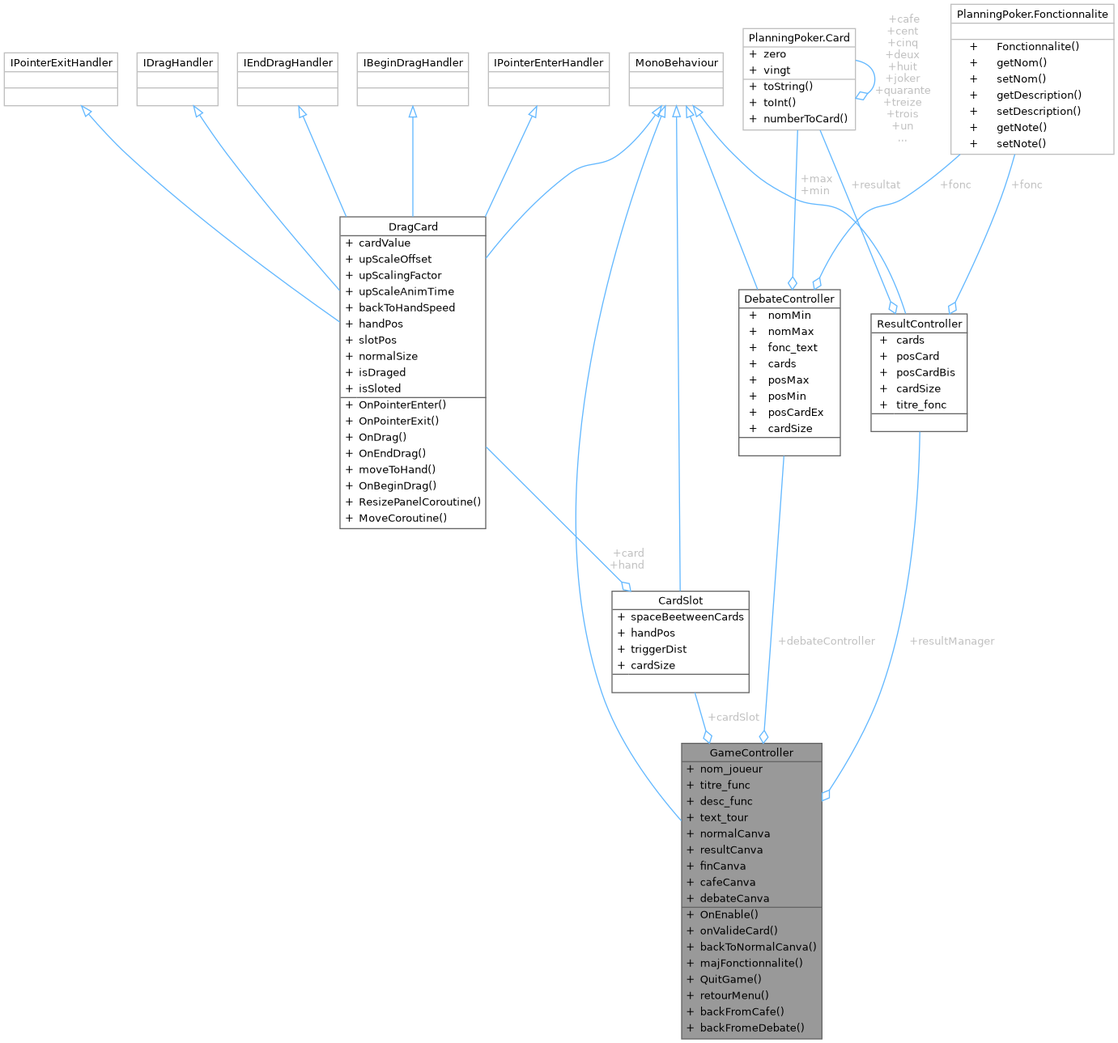
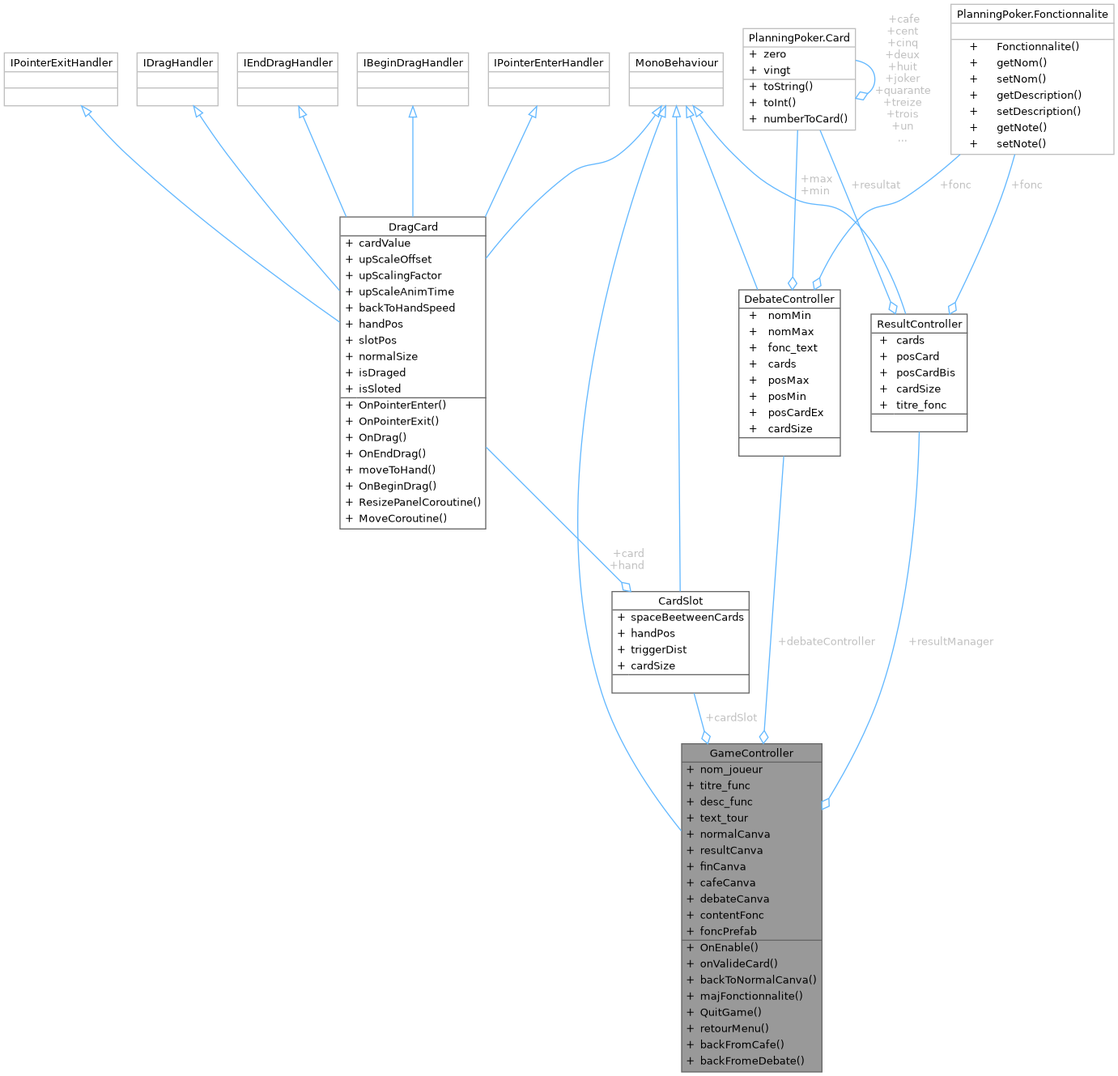
deploy: 15e316190e2ada35e5dddae3ec6a5c3a0fa7c6b8

diff --git a/html/classGameController.html b/html/classGameController.html
@@ -84,9 +84,9 @@ Inheritance diagram for GameController:</div>
 <div class="dyncontent">
 <div class="center"><img src="classGameController__inherit__graph.png" border="0" usemap="#aGameController_inherit__map" alt="Inheritance graph"/></div>
 <map name="aGameController_inherit__map" id="aGameController_inherit__map">
-<area shape="rect" title="Permet de gérer le fonctionnement du jeu en reliant le modèle aux différentes vues." alt="" coords="5,119,179,544"/>
+<area shape="rect" title="Permet de gérer le fonctionnement du jeu en reliant le modèle aux différentes vues." alt="" coords="5,119,179,584"/>
 <area shape="rect" title=" " alt="" coords="34,5,150,71"/>
-<area shape="poly" title=" " alt="" coords="95,85,95,119,89,119,89,85"/>
+<area shape="poly" title=" " alt="" coords="95,84,95,118,89,118,89,84"/>
 </map>
 </div>
 <div class="dynheader">
@@ -94,9 +94,9 @@ Collaboration diagram for GameController:</div>
 <div class="dyncontent">
 <div class="center"><img src="classGameController__coll__graph.png" border="0" usemap="#aGameController_coll__map" alt="Collaboration graph"/></div>
 <map name="aGameController_coll__map" id="aGameController_coll__map">
-<area shape="rect" title="Permet de gérer le fonctionnement du jeu en reliant le modèle aux différentes vues." alt="" coords="842,919,1015,1284"/>
+<area shape="rect" title="Permet de gérer le fonctionnement du jeu en reliant le modèle aux différentes vues." alt="" coords="842,919,1015,1324"/>
 <area shape="rect" title=" " alt="" coords="777,65,893,131"/>
-<area shape="poly" title=" " alt="" coords="819,144,776,269,753,353,732,447,718,548,714,652,722,755,732,806,746,855,764,898,788,940,844,1013,840,1016,783,943,759,901,741,857,727,807,717,756,709,652,713,547,727,446,747,352,771,267,814,142"/>
+<area shape="poly" title=" " alt="" coords="820,144,777,269,755,353,735,447,721,547,716,651,724,755,733,806,746,855,764,901,788,945,844,1025,839,1028,783,948,759,903,741,857,727,807,718,756,711,651,716,547,730,446,750,352,772,267,815,143"/>
 <area shape="rect" href="classCardSlot.html" title="Permet d&#39;encrer les cartes à l&#39;intérieur du cadre (slot)" alt="" coords="756,731,925,856"/>
 <area shape="poly" title=" " alt="" coords="838,144,843,730,838,730,833,145"/>
 <area shape="rect" href="classDragCard.html" title="Permet de gérer les mouvements d&#39;une carte." alt="" coords="420,268,600,653"/>
@@ -105,7 +105,7 @@ Collaboration diagram for GameController:</div>
 <area shape="poly" title=" " alt="" coords="866,140,908,189,941,219,979,242,999,249,1016,251,1033,254,1052,266,1076,293,1095,323,1121,387,1116,389,1090,326,1071,296,1048,270,1031,259,1015,256,998,254,977,246,938,223,904,193,862,143"/>
 <area shape="rect" href="classDebateController.html" title="Permet de gérer l&#39;affichage lors du débat." alt="" coords="913,358,1038,563"/>
 <area shape="poly" title=" " alt="" coords="855,143,938,357,933,359,850,145"/>
-<area shape="poly" title=" " alt="" coords="861,855,874,902,869,904,856,857"/>
+<area shape="poly" title=" " alt="" coords="860,856,873,902,867,904,855,857"/>
 <area shape="poly" title=" " alt="" coords="602,550,770,717,766,721,598,554"/>
 <area shape="rect" title=" " alt="" coords="603,65,753,131"/>
 <area shape="poly" title=" " alt="" coords="660,145,602,269,597,267,655,143"/>
@@ -117,7 +117,7 @@ Collaboration diagram for GameController:</div>
 <area shape="poly" title=" " alt="" coords="377,143,430,267,425,269,372,145"/>
 <area shape="rect" title=" " alt="" coords="441,65,579,131"/>
 <area shape="poly" title=" " alt="" coords="513,145,513,268,507,268,507,145"/>
-<area shape="poly" title=" " alt="" coords="1139,534,1136,603,1129,685,1114,772,1090,857,1062,919,1027,978,1022,975,1057,917,1085,855,1109,771,1123,684,1131,603,1134,534"/>
+<area shape="poly" title=" " alt="" coords="1138,533,1135,603,1127,685,1113,772,1090,857,1061,924,1026,987,1022,984,1057,921,1085,855,1108,771,1122,684,1130,602,1133,533"/>
 <area shape="rect" href="classPlanningPoker_1_1Card.html" title=" " alt="" coords="918,35,1057,161"/>
 <area shape="poly" title=" " alt="" coords="1016,160,1038,214,1102,371,1097,373,1033,216,1011,162"/>
 <area shape="poly" title=" " alt="" coords="1058,72,1076,81,1083,98,1081,109,1074,117,1070,114,1076,107,1078,98,1072,84,1056,77"/>
@@ -125,7 +125,7 @@ Collaboration diagram for GameController:</div>
 <area shape="rect" href="classPlanningPoker_1_1Fonctionnalite.html" title=" " alt="" coords="1175,5,1376,191"/>
 <area shape="poly" title=" " alt="" coords="1256,192,1239,245,1212,312,1182,375,1178,372,1207,309,1234,243,1251,190"/>
 <area shape="poly" title=" " alt="" coords="1188,193,1119,246,1104,254,1090,257,1078,261,1065,270,1037,305,1015,345,1010,342,1033,302,1062,266,1076,256,1089,252,1102,249,1117,242,1184,189"/>
-<area shape="poly" title=" " alt="" coords="971,564,947,895,947,903,941,902,942,894,966,563"/>
+<area shape="poly" title=" " alt="" coords="971,564,947,903,941,902,965,563"/>
 </map>
 </div>
 <table class="memberdecls">
@@ -203,6 +203,14 @@ Canvas&#160;</td><td class="memItemRight" valign="bottom"><b>debateCanva</b></td
 <a class="el" href="classDebateController.html">DebateController</a>&#160;</td><td class="memItemRight" valign="bottom"><b>debateController</b></td></tr>
 <tr class="memdesc:a29f08f8c9fedc4f6b65fead895c920de"><td class="mdescLeft">&#160;</td><td class="mdescRight">Manager qui gère l'affichage du canva de débat. <br /></td></tr>
 <tr class="separator:a29f08f8c9fedc4f6b65fead895c920de"><td class="memSeparator" colspan="2">&#160;</td></tr>
+<tr class="memitem:a3e220e0bbcc906b1c2b78b963fb5dbdc" id="r_a3e220e0bbcc906b1c2b78b963fb5dbdc"><td class="memItemLeft" align="right" valign="top"><a id="a3e220e0bbcc906b1c2b78b963fb5dbdc" name="a3e220e0bbcc906b1c2b78b963fb5dbdc"></a>
+Transform&#160;</td><td class="memItemRight" valign="bottom"><b>contentFonc</b></td></tr>
+<tr class="memdesc:a3e220e0bbcc906b1c2b78b963fb5dbdc"><td class="mdescLeft">&#160;</td><td class="mdescRight">Objet contenant visuellement la liste des fonctionnalitées. <br /></td></tr>
+<tr class="separator:a3e220e0bbcc906b1c2b78b963fb5dbdc"><td class="memSeparator" colspan="2">&#160;</td></tr>
+<tr class="memitem:a9b91609c95498f450aee75672f149a7c" id="r_a9b91609c95498f450aee75672f149a7c"><td class="memItemLeft" align="right" valign="top"><a id="a9b91609c95498f450aee75672f149a7c" name="a9b91609c95498f450aee75672f149a7c"></a>
+GameObject&#160;</td><td class="memItemRight" valign="bottom"><b>foncPrefab</b></td></tr>
+<tr class="memdesc:a9b91609c95498f450aee75672f149a7c"><td class="mdescLeft">&#160;</td><td class="mdescRight">Objet visuel pour afficher la fonctionnalité à la fin de la partie. <br /></td></tr>
+<tr class="separator:a9b91609c95498f450aee75672f149a7c"><td class="memSeparator" colspan="2">&#160;</td></tr>
 </table>
 <a name="details" id="details"></a><h2 class="groupheader">Detailed Description</h2>
 <div class="textblock"><p>Permet de gérer le fonctionnement du jeu en reliant le modèle aux différentes vues. </p>
@@ -239,20 +247,23 @@ Here is the call graph for this function:</div>
 <div class="dyncontent">
 <div class="center"><img src="classGameController_a947759a1149a4ee02cd068eb0bf66cc1_cgraph.png" border="0" usemap="#aclassGameController_a947759a1149a4ee02cd068eb0bf66cc1_cgraph" alt=""/></div>
 <map name="aclassGameController_a947759a1149a4ee02cd068eb0bf66cc1_cgraph" id="aclassGameController_a947759a1149a4ee02cd068eb0bf66cc1_cgraph">
-<area shape="rect" title="Retour du canva de résultat." alt="" coords="5,69,227,109"/>
-<area shape="rect" href="classPlanningPoker_1_1AppManager.html#aab28663b8514785b9dc38b845d47c62c" title="Obtient la fonctionnalité actuellement en cours d&#39;estimation." alt="" coords="589,5,812,45"/>
-<area shape="poly" title=" " alt="" coords="226,68,274,61,431,44,576,32,576,37,432,50,275,67,227,73"/>
-<area shape="rect" href="classGameController.html#ad85fdfb6214281bd022804dce6b6c6ee" title="Mise à jour visuelle de la fonctionnalité traitée." alt="" coords="275,77,520,102"/>
-<area shape="poly" title=" " alt="" coords="227,87,261,87,261,92,227,92"/>
-<area shape="rect" href="classDragCard.html#a3d25f42efb0ad8be8026909cc7e1b070" title="Remet la carte dans la position de la main du joueur." alt="" coords="311,154,483,179"/>
-<area shape="poly" title=" " alt="" coords="190,107,337,148,336,153,189,112"/>
-<area shape="poly" title=" " alt="" coords="458,74,592,46,593,51,459,79"/>
-<area shape="rect" href="classPlanningPoker_1_1Fonctionnalite.html#ae7c520d6348f40ac85679a803034ac16" title="Getter pour la description de la fonctionnalité" alt="" coords="583,69,818,109"/>
-<area shape="poly" title=" " alt="" coords="520,87,570,87,570,92,520,92"/>
-<area shape="rect" href="classPlanningPoker_1_1Fonctionnalite.html#a841cf84389a63c7e19fdc114711a75d8" title="Getter pour le nom de la fonctionnalité" alt="" coords="568,134,833,159"/>
-<area shape="poly" title=" " alt="" coords="466,99,620,129,619,134,465,105"/>
-<area shape="rect" href="classDragCard.html#a20558c8c3add49bdeeff5c5bf97a7eac" title="Fonction qui déplace la carte." alt="" coords="607,183,794,209"/>
-<area shape="poly" title=" " alt="" coords="484,172,594,183,593,188,483,178"/>
+<area shape="rect" title="Retour du canva de résultat." alt="" coords="5,105,227,145"/>
+<area shape="rect" href="classPlanningPoker_1_1AppManager.html#aab28663b8514785b9dc38b845d47c62c" title="Obtient la fonctionnalité actuellement en cours d&#39;estimation." alt="" coords="609,5,832,45"/>
+<area shape="poly" title=" " alt="" coords="149,103,206,73,274,48,356,32,441,22,522,18,596,17,596,22,522,23,441,27,357,37,275,53,208,78,152,107"/>
+<area shape="rect" href="classPlanningPoker_1_1Fonctionnalite.html#a841cf84389a63c7e19fdc114711a75d8" title="Getter pour le nom de la fonctionnalité" alt="" coords="588,149,853,174"/>
+<area shape="poly" title=" " alt="" coords="227,141,275,147,429,156,574,159,574,165,429,161,274,152,226,146"/>
+<area shape="rect" href="classPlanningPoker_1_1Fonctionnalite.html#ad688c9650bfa2642f032b2d8466c9415" title="Getter pour la note associée à la fonctionnalité" alt="" coords="275,113,540,138"/>
+<area shape="poly" title=" " alt="" coords="227,123,261,123,261,128,227,128"/>
+<area shape="rect" href="classGameController.html#ad85fdfb6214281bd022804dce6b6c6ee" title="Mise à jour visuelle de la fonctionnalité traitée." alt="" coords="285,63,530,89"/>
+<area shape="poly" title=" " alt="" coords="226,104,318,88,319,94,227,109"/>
+<area shape="rect" href="classDragCard.html#a3d25f42efb0ad8be8026909cc7e1b070" title="Remet la carte dans la position de la main du joueur." alt="" coords="321,214,493,239"/>
+<area shape="poly" title=" " alt="" coords="159,143,214,168,276,192,331,208,330,213,274,197,212,173,157,148"/>
+<area shape="poly" title=" " alt="" coords="486,61,595,43,596,48,487,66"/>
+<area shape="poly" title=" " alt="" coords="496,86,541,97,565,108,589,119,661,142,659,147,587,124,563,113,539,103,494,91"/>
+<area shape="rect" href="classPlanningPoker_1_1Fonctionnalite.html#ae7c520d6348f40ac85679a803034ac16" title="Getter pour la description de la fonctionnalité" alt="" coords="603,69,838,109"/>
+<area shape="poly" title=" " alt="" coords="530,79,590,81,589,86,530,84"/>
+<area shape="rect" href="classDragCard.html#a20558c8c3add49bdeeff5c5bf97a7eac" title="Fonction qui déplace la carte." alt="" coords="627,214,814,239"/>
+<area shape="poly" title=" " alt="" coords="494,224,613,224,613,229,494,229"/>
 </map>
 </div>
 
@@ -288,16 +299,19 @@ Here is the call graph for this function:</div>
 <div class="dyncontent">
 <div class="center"><img src="classGameController_a8a40d3d76e5ac315a5a7c0cf00f41b83_cgraph.png" border="0" usemap="#aclassGameController_a8a40d3d76e5ac315a5a7c0cf00f41b83_cgraph" alt=""/></div>
 <map name="aclassGameController_a8a40d3d76e5ac315a5a7c0cf00f41b83_cgraph" id="aclassGameController_a8a40d3d76e5ac315a5a7c0cf00f41b83_cgraph">
-<area shape="rect" title="Initialise les variables lors de l&#39;activation." alt="" coords="5,45,196,70"/>
-<area shape="rect" href="classPlanningPoker_1_1AppManager.html#aab28663b8514785b9dc38b845d47c62c" title="Obtient la fonctionnalité actuellement en cours d&#39;estimation." alt="" coords="559,5,781,45"/>
-<area shape="poly" title=" " alt="" coords="196,49,544,30,544,35,196,55"/>
-<area shape="rect" href="classGameController.html#ad85fdfb6214281bd022804dce6b6c6ee" title="Mise à jour visuelle de la fonctionnalité traitée." alt="" coords="244,70,489,95"/>
-<area shape="poly" title=" " alt="" coords="197,64,230,67,230,72,196,69"/>
-<area shape="poly" title=" " alt="" coords="434,67,550,45,551,50,435,73"/>
-<area shape="rect" href="classPlanningPoker_1_1Fonctionnalite.html#ae7c520d6348f40ac85679a803034ac16" title="Getter pour la description de la fonctionnalité" alt="" coords="553,69,787,109"/>
-<area shape="poly" title=" " alt="" coords="489,83,539,84,539,89,489,88"/>
-<area shape="rect" href="classPlanningPoker_1_1Fonctionnalite.html#a841cf84389a63c7e19fdc114711a75d8" title="Getter pour le nom de la fonctionnalité" alt="" coords="537,134,803,159"/>
-<area shape="poly" title=" " alt="" coords="422,93,538,119,588,129,587,134,537,124,421,98"/>
+<area shape="rect" title="Initialise les variables lors de l&#39;activation." alt="" coords="5,102,196,127"/>
+<area shape="rect" href="classPlanningPoker_1_1AppManager.html#aab28663b8514785b9dc38b845d47c62c" title="Obtient la fonctionnalité actuellement en cours d&#39;estimation." alt="" coords="579,5,801,45"/>
+<area shape="poly" title=" " alt="" coords="130,99,182,79,243,61,326,46,410,36,565,25,565,30,411,41,327,52,245,67,184,84,132,104"/>
+<area shape="rect" href="classPlanningPoker_1_1Fonctionnalite.html#a841cf84389a63c7e19fdc114711a75d8" title="Getter pour le nom de la fonctionnalité" alt="" coords="557,134,823,159"/>
+<area shape="poly" title=" " alt="" coords="196,117,543,136,543,141,196,122"/>
+<area shape="rect" href="classPlanningPoker_1_1Fonctionnalite.html#ad688c9650bfa2642f032b2d8466c9415" title="Getter pour la note associée à la fonctionnalité" alt="" coords="244,178,509,203"/>
+<area shape="poly" title=" " alt="" coords="142,125,245,156,307,172,306,177,243,161,140,130"/>
+<area shape="rect" href="classGameController.html#ad85fdfb6214281bd022804dce6b6c6ee" title="Mise à jour visuelle de la fonctionnalité traitée." alt="" coords="254,77,499,102"/>
+<area shape="poly" title=" " alt="" coords="196,103,240,99,240,105,196,109"/>
+<area shape="poly" title=" " alt="" coords="439,74,577,46,579,51,440,79"/>
+<area shape="poly" title=" " alt="" coords="447,99,607,129,606,134,446,105"/>
+<area shape="rect" href="classPlanningPoker_1_1Fonctionnalite.html#ae7c520d6348f40ac85679a803034ac16" title="Getter pour la description de la fonctionnalité" alt="" coords="573,69,807,109"/>
+<area shape="poly" title=" " alt="" coords="499,87,559,87,559,92,499,92"/>
 </map>
 </div>
 

diff --git a/html/classGameController-members.html b/html/classGameController-members.html
@@ -80,10 +80,12 @@ $(function() {
   <tr class="even"><td class="entry"><a class="el" href="classGameController.html#a947759a1149a4ee02cd068eb0bf66cc1">backToNormalCanva</a>()</td><td class="entry"><a class="el" href="classGameController.html">GameController</a></td><td class="entry"><span class="mlabel">inline</span></td></tr>
   <tr bgcolor="#f0f0f0" class="odd"><td class="entry"><b>cafeCanva</b> (defined in <a class="el" href="classGameController.html">GameController</a>)</td><td class="entry"><a class="el" href="classGameController.html">GameController</a></td><td class="entry"></td></tr>
   <tr class="even"><td class="entry"><a class="el" href="classGameController.html#aa9bd690cbd8e1eb1c1f10d94215e514e">cardSlot</a></td><td class="entry"><a class="el" href="classGameController.html">GameController</a></td><td class="entry"></td></tr>
-  <tr bgcolor="#f0f0f0" class="odd"><td class="entry"><b>debateCanva</b> (defined in <a class="el" href="classGameController.html">GameController</a>)</td><td class="entry"><a class="el" href="classGameController.html">GameController</a></td><td class="entry"></td></tr>
-  <tr class="even"><td class="entry"><a class="el" href="classGameController.html#a29f08f8c9fedc4f6b65fead895c920de">debateController</a></td><td class="entry"><a class="el" href="classGameController.html">GameController</a></td><td class="entry"></td></tr>
-  <tr bgcolor="#f0f0f0" class="odd"><td class="entry"><b>desc_func</b> (defined in <a class="el" href="classGameController.html">GameController</a>)</td><td class="entry"><a class="el" href="classGameController.html">GameController</a></td><td class="entry"></td></tr>
-  <tr bgcolor="#f0f0f0" class="even"><td class="entry"><b>finCanva</b> (defined in <a class="el" href="classGameController.html">GameController</a>)</td><td class="entry"><a class="el" href="classGameController.html">GameController</a></td><td class="entry"></td></tr>
+  <tr class="odd"><td class="entry"><a class="el" href="classGameController.html#a3e220e0bbcc906b1c2b78b963fb5dbdc">contentFonc</a></td><td class="entry"><a class="el" href="classGameController.html">GameController</a></td><td class="entry"></td></tr>
+  <tr bgcolor="#f0f0f0" class="even"><td class="entry"><b>debateCanva</b> (defined in <a class="el" href="classGameController.html">GameController</a>)</td><td class="entry"><a class="el" href="classGameController.html">GameController</a></td><td class="entry"></td></tr>
+  <tr class="odd"><td class="entry"><a class="el" href="classGameController.html#a29f08f8c9fedc4f6b65fead895c920de">debateController</a></td><td class="entry"><a class="el" href="classGameController.html">GameController</a></td><td class="entry"></td></tr>
+  <tr bgcolor="#f0f0f0" class="even"><td class="entry"><b>desc_func</b> (defined in <a class="el" href="classGameController.html">GameController</a>)</td><td class="entry"><a class="el" href="classGameController.html">GameController</a></td><td class="entry"></td></tr>
+  <tr bgcolor="#f0f0f0" class="odd"><td class="entry"><b>finCanva</b> (defined in <a class="el" href="classGameController.html">GameController</a>)</td><td class="entry"><a class="el" href="classGameController.html">GameController</a></td><td class="entry"></td></tr>
+  <tr class="even"><td class="entry"><a class="el" href="classGameController.html#a9b91609c95498f450aee75672f149a7c">foncPrefab</a></td><td class="entry"><a class="el" href="classGameController.html">GameController</a></td><td class="entry"></td></tr>
   <tr class="odd"><td class="entry"><a class="el" href="classGameController.html#ad85fdfb6214281bd022804dce6b6c6ee">majFonctionnalite</a>()</td><td class="entry"><a class="el" href="classGameController.html">GameController</a></td><td class="entry"><span class="mlabel">inline</span></td></tr>
   <tr class="even"><td class="entry"><a class="el" href="classGameController.html#a54e95c418b6c4a66af7ca2ca841f364c">nom_joueur</a></td><td class="entry"><a class="el" href="classGameController.html">GameController</a></td><td class="entry"></td></tr>
   <tr class="odd"><td class="entry"><a class="el" href="classGameController.html#a865a5b565b194ddfddc764c7765079c1">normalCanva</a></td><td class="entry"><a class="el" href="classGameController.html">GameController</a></td><td class="entry"></td></tr>

diff --git a/html/classPlanningPoker_1_1Fonctionnalite.html b/html/classPlanningPoker_1_1Fonctionnalite.html
@@ -186,13 +186,15 @@ Here is the caller graph for this function:</div>
 <div class="dyncontent">
 <div class="center"><img src="classPlanningPoker_1_1Fonctionnalite_a841cf84389a63c7e19fdc114711a75d8_icgraph.png" border="0" usemap="#aclassPlanningPoker_1_1Fonctionnalite_a841cf84389a63c7e19fdc114711a75d8_icgraph" alt=""/></div>
 <map name="aclassPlanningPoker_1_1Fonctionnalite_a841cf84389a63c7e19fdc114711a75d8_icgraph" id="aclassPlanningPoker_1_1Fonctionnalite_a841cf84389a63c7e19fdc114711a75d8_icgraph">
-<area shape="rect" title="Getter pour le nom de la fonctionnalité" alt="" coords="568,42,833,67"/>
-<area shape="rect" href="classGameController.html#ad85fdfb6214281bd022804dce6b6c6ee" title="Mise à jour visuelle de la fonctionnalité traitée." alt="" coords="275,42,520,67"/>
-<area shape="poly" title=" " alt="" coords="555,57,520,57,520,52,555,52"/>
+<area shape="rect" title="Getter pour le nom de la fonctionnalité" alt="" coords="568,51,833,77"/>
 <area shape="rect" href="classGameController.html#a947759a1149a4ee02cd068eb0bf66cc1" title="Retour du canva de résultat." alt="" coords="5,5,227,45"/>
-<area shape="poly" title=" " alt="" coords="262,43,226,39,227,34,262,38"/>
-<area shape="rect" href="classGameController.html#a8a40d3d76e5ac315a5a7c0cf00f41b83" title="Initialise les variables lors de l&#39;activation." alt="" coords="21,70,211,95"/>
-<area shape="poly" title=" " alt="" coords="261,71,212,76,211,71,261,66"/>
+<area shape="poly" title=" " alt="" coords="609,52,520,41,367,32,227,28,227,23,367,27,520,36,609,47"/>
+<area shape="rect" href="classGameController.html#ad85fdfb6214281bd022804dce6b6c6ee" title="Mise à jour visuelle de la fonctionnalité traitée." alt="" coords="275,51,520,77"/>
+<area shape="poly" title=" " alt="" coords="555,67,520,67,520,61,555,61"/>
+<area shape="rect" href="classGameController.html#a8a40d3d76e5ac315a5a7c0cf00f41b83" title="Initialise les variables lors de l&#39;activation." alt="" coords="21,81,211,106"/>
+<area shape="poly" title=" " alt="" coords="612,81,520,92,357,99,211,99,211,93,357,93,520,87,611,76"/>
+<area shape="poly" title=" " alt="" coords="290,52,227,43,227,38,291,47"/>
+<area shape="poly" title=" " alt="" coords="262,81,212,86,211,81,262,75"/>
 </map>
 </div>
 
@@ -228,9 +230,13 @@ Here is the caller graph for this function:</div>
 <div class="dyncontent">
 <div class="center"><img src="classPlanningPoker_1_1Fonctionnalite_ad688c9650bfa2642f032b2d8466c9415_icgraph.png" border="0" usemap="#aclassPlanningPoker_1_1Fonctionnalite_ad688c9650bfa2642f032b2d8466c9415_icgraph" alt=""/></div>
 <map name="aclassPlanningPoker_1_1Fonctionnalite_ad688c9650bfa2642f032b2d8466c9415_icgraph" id="aclassPlanningPoker_1_1Fonctionnalite_ad688c9650bfa2642f032b2d8466c9415_icgraph">
-<area shape="rect" title="Getter pour la note associée à la fonctionnalité" alt="" coords="256,13,521,38"/>
-<area shape="rect" href="classPlanningPoker_1_1AppManager.html#aa41ff4c5604eb95046e0911c9b648535" title="Constructeur de la classe AppManager." alt="" coords="5,5,208,45"/>
-<area shape="poly" title=" " alt="" coords="242,28,208,28,208,23,242,23"/>
+<area shape="rect" title="Getter pour la note associée à la fonctionnalité" alt="" coords="275,77,540,102"/>
+<area shape="rect" href="classPlanningPoker_1_1AppManager.html#aa41ff4c5604eb95046e0911c9b648535" title="Constructeur de la classe AppManager." alt="" coords="15,5,217,45"/>
+<area shape="poly" title=" " alt="" coords="335,76,207,48,208,43,336,71"/>
+<area shape="rect" href="classGameController.html#a947759a1149a4ee02cd068eb0bf66cc1" title="Retour du canva de résultat." alt="" coords="5,69,227,109"/>
+<area shape="poly" title=" " alt="" coords="261,92,227,92,227,87,261,87"/>
+<area shape="rect" href="classGameController.html#a8a40d3d76e5ac315a5a7c0cf00f41b83" title="Initialise les variables lors de l&#39;activation." alt="" coords="21,134,211,159"/>
+<area shape="poly" title=" " alt="" coords="329,107,182,137,181,131,328,102"/>
 </map>
 </div>
 

diff --git a/html/classPlanningPoker_1_1AppManager-members.html b/html/classPlanningPoker_1_1AppManager-members.html
@@ -80,10 +80,11 @@ $(function() {
 <p>This is the complete list of members for <a class="el" href="classPlanningPoker_1_1AppManager.html">PlanningPoker.AppManager</a>, including all inherited members.</p>
 <table class="directory">
   <tr class="even"><td class="entry"><a class="el" href="classPlanningPoker_1_1AppManager.html#aa41ff4c5604eb95046e0911c9b648535">AppManager</a>(string file, Validator.Validate mode)</td><td class="entry"><a class="el" href="classPlanningPoker_1_1AppManager.html">PlanningPoker.AppManager</a></td><td class="entry"><span class="mlabel">inline</span></td></tr>
-  <tr class="odd"><td class="entry"><a class="el" href="classPlanningPoker_1_1AppManager.html#aab28663b8514785b9dc38b845d47c62c">getCurrent</a>()</td><td class="entry"><a class="el" href="classPlanningPoker_1_1AppManager.html">PlanningPoker.AppManager</a></td><td class="entry"><span class="mlabel">inline</span></td></tr>
-  <tr class="even"><td class="entry"><a class="el" href="classPlanningPoker_1_1AppManager.html#a76c7ce6b4ba188841c42aa465c264368">joue_tour</a>(Card[] cartes, out Card c)</td><td class="entry"><a class="el" href="classPlanningPoker_1_1AppManager.html">PlanningPoker.AppManager</a></td><td class="entry"><span class="mlabel">inline</span></td></tr>
-  <tr class="odd"><td class="entry"><a class="el" href="classPlanningPoker_1_1AppManager.html#a62d7eb5142c74fe16166363f0cce4f16">save</a>()</td><td class="entry"><a class="el" href="classPlanningPoker_1_1AppManager.html">PlanningPoker.AppManager</a></td><td class="entry"><span class="mlabel">inline</span></td></tr>
-  <tr class="even"><td class="entry"><a class="el" href="classPlanningPoker_1_1AppManager.html#aee3ca05c36577cec3794ce3c57399e42">tour</a></td><td class="entry"><a class="el" href="classPlanningPoker_1_1AppManager.html">PlanningPoker.AppManager</a></td><td class="entry"></td></tr>
+  <tr class="odd"><td class="entry"><a class="el" href="classPlanningPoker_1_1AppManager.html#a8fd02e1730aae81f28bad8e9ab05d3cc">fonctionnalites</a></td><td class="entry"><a class="el" href="classPlanningPoker_1_1AppManager.html">PlanningPoker.AppManager</a></td><td class="entry"></td></tr>
+  <tr class="even"><td class="entry"><a class="el" href="classPlanningPoker_1_1AppManager.html#aab28663b8514785b9dc38b845d47c62c">getCurrent</a>()</td><td class="entry"><a class="el" href="classPlanningPoker_1_1AppManager.html">PlanningPoker.AppManager</a></td><td class="entry"><span class="mlabel">inline</span></td></tr>
+  <tr class="odd"><td class="entry"><a class="el" href="classPlanningPoker_1_1AppManager.html#a76c7ce6b4ba188841c42aa465c264368">joue_tour</a>(Card[] cartes, out Card c)</td><td class="entry"><a class="el" href="classPlanningPoker_1_1AppManager.html">PlanningPoker.AppManager</a></td><td class="entry"><span class="mlabel">inline</span></td></tr>
+  <tr class="even"><td class="entry"><a class="el" href="classPlanningPoker_1_1AppManager.html#a62d7eb5142c74fe16166363f0cce4f16">save</a>()</td><td class="entry"><a class="el" href="classPlanningPoker_1_1AppManager.html">PlanningPoker.AppManager</a></td><td class="entry"><span class="mlabel">inline</span></td></tr>
+  <tr class="odd"><td class="entry"><a class="el" href="classPlanningPoker_1_1AppManager.html#aee3ca05c36577cec3794ce3c57399e42">tour</a></td><td class="entry"><a class="el" href="classPlanningPoker_1_1AppManager.html">PlanningPoker.AppManager</a></td><td class="entry"></td></tr>
 </table></div><!-- contents -->
 <!-- start footer part -->
 <hr class="footer"/><address class="footer"><small>

diff --git a/html/classPlanningPoker_1_1AppManager.html b/html/classPlanningPoker_1_1AppManager.html
@@ -75,6 +75,7 @@ $(function() {
 <div class="header">
   <div class="summary">
 <a href="#pub-methods">Public Member Functions</a> &#124;
+<a href="#pub-attribs">Public Attributes</a> &#124;
 <a href="#properties">Properties</a> &#124;
 <a href="classPlanningPoker_1_1AppManager-members.html">List of all members</a>  </div>
   <div class="headertitle"><div class="title">PlanningPoker.AppManager Class Reference</div></div>
@@ -85,7 +86,9 @@ Collaboration diagram for PlanningPoker.AppManager:</div>
 <div class="dyncontent">
 <div class="center"><img src="classPlanningPoker_1_1AppManager__coll__graph.png" border="0" usemap="#aPlanningPoker_8AppManager_coll__map" alt="Collaboration graph"/></div>
 <map name="aPlanningPoker_8AppManager_coll__map" id="aPlanningPoker_8AppManager_coll__map">
-<area shape="rect" title=" " alt="" coords="5,5,196,131"/>
+<area shape="rect" title=" " alt="" coords="11,253,201,379"/>
+<area shape="rect" href="classPlanningPoker_1_1Fonctionnalite.html" title=" " alt="" coords="5,5,207,191"/>
+<area shape="poly" title=" " alt="" coords="109,191,109,237,103,237,103,191"/>
 </map>
 </div>
 <table class="memberdecls">
@@ -103,6 +106,13 @@ Public Member Functions</h2></td></tr>
 <tr class="memitem:a76c7ce6b4ba188841c42aa465c264368" id="r_a76c7ce6b4ba188841c42aa465c264368"><td class="memItemLeft" align="right" valign="top">int&#160;</td><td class="memItemRight" valign="bottom"><a class="el" href="classPlanningPoker_1_1AppManager.html#a76c7ce6b4ba188841c42aa465c264368">joue_tour</a> (<a class="el" href="classPlanningPoker_1_1Card.html">Card</a>[] cartes, out <a class="el" href="classPlanningPoker_1_1Card.html">Card</a> c)</td></tr>
 <tr class="memdesc:a76c7ce6b4ba188841c42aa465c264368"><td class="mdescLeft">&#160;</td><td class="mdescRight">Joue un tour en évaluant les cartes soumises par les joueurs.  <br /></td></tr>
 <tr class="separator:a76c7ce6b4ba188841c42aa465c264368"><td class="memSeparator" colspan="2">&#160;</td></tr>
+</table><table class="memberdecls">
+<tr class="heading"><td colspan="2"><h2 class="groupheader"><a id="pub-attribs" name="pub-attribs"></a>
+Public Attributes</h2></td></tr>
+<tr class="memitem:a8fd02e1730aae81f28bad8e9ab05d3cc" id="r_a8fd02e1730aae81f28bad8e9ab05d3cc"><td class="memItemLeft" align="right" valign="top"><a id="a8fd02e1730aae81f28bad8e9ab05d3cc" name="a8fd02e1730aae81f28bad8e9ab05d3cc"></a>
+<a class="el" href="classPlanningPoker_1_1Fonctionnalite.html">Fonctionnalite</a>[]&#160;</td><td class="memItemRight" valign="bottom"><b>fonctionnalites</b></td></tr>
+<tr class="memdesc:a8fd02e1730aae81f28bad8e9ab05d3cc"><td class="mdescLeft">&#160;</td><td class="mdescRight">Tableau des fonctionnalités à estimer. <br /></td></tr>
+<tr class="separator:a8fd02e1730aae81f28bad8e9ab05d3cc"><td class="memSeparator" colspan="2">&#160;</td></tr>
 </table><table class="memberdecls">
 <tr class="heading"><td colspan="2"><h2 class="groupheader"><a id="properties" name="properties"></a>
 Properties</h2></td></tr>

diff --git a/html/search/all_2.js b/html/search/all_2.js
@@ -5,7 +5,7 @@ var searchData=
   ['canvassampleopenfilejson_2',['CanvasSampleOpenFileJson',['../classCanvasSampleOpenFileJson.html',1,'']]],
   ['card_3',['card',['../classCard.html',1,'Card'],['../classPlanningPoker_1_1Card.html',1,'PlanningPoker.Card'],['../classCardSlot.html#a1d7c85a7ef9ce287f678730138a27f75',1,'CardSlot.card']]],
   ['cards_4',['cards',['../classDebateController.html#a60110827acf35318c845e939364353ce',1,'DebateController.cards'],['../classResultController.html#afc3ab42b48844f197513304b8f7ec305',1,'ResultController.cards']]],
-  ['cardsize_5',['cardsize',['../classDebateController.html#aadd380d4d7a1120a806bb958d02c4588',1,'DebateController.cardSize'],['../classCardSlot.html#a9941e4748e4b48a14fce74740a809574',1,'CardSlot.cardSize'],['../classResultController.html#a05c6824f3d77cf8756720823d70d17ec',1,'ResultController.cardSize']]],
+  ['cardsize_5',['cardsize',['../classCardSlot.html#a9941e4748e4b48a14fce74740a809574',1,'CardSlot.cardSize'],['../classResultController.html#a05c6824f3d77cf8756720823d70d17ec',1,'ResultController.cardSize'],['../classDebateController.html#aadd380d4d7a1120a806bb958d02c4588',1,'DebateController.cardSize']]],
   ['cardslot_6',['cardslot',['../classCardSlot.html',1,'CardSlot'],['../classGameController.html#aa9bd690cbd8e1eb1c1f10d94215e514e',1,'GameController.cardSlot']]],
   ['cardvalue_7',['cardValue',['../classDragCard.html#a7bbed292b446e9a8564f88829b362678',1,'DragCard']]],
   ['cent_8',['cent',['../classPlanningPoker_1_1Card.html#af53fd4f3897aff1617465ee3159793c9',1,'PlanningPoker::Card']]],
@@ -13,5 +13,6 @@ var searchData=
   ['chrono_10',['Chrono',['../classChrono.html',1,'']]],
   ['chronometertext_11',['chronometerText',['../classChrono.html#aa835d140eeb4b0c81bd355bc0ffb7021',1,'Chrono']]],
   ['cinq_12',['cinq',['../classPlanningPoker_1_1Card.html#a15eda93793c7ab8a7d8a9299583d571f',1,'PlanningPoker::Card']]],
-  ['contentnoms_13',['contentNoms',['../classMenuController.html#a5ecbb0f445107ddc4d097e3c47fc3486',1,'MenuController']]]
+  ['contentfonc_13',['contentFonc',['../classGameController.html#a3e220e0bbcc906b1c2b78b963fb5dbdc',1,'GameController']]],
+  ['contentnoms_14',['contentNoms',['../classMenuController.html#a5ecbb0f445107ddc4d097e3c47fc3486',1,'MenuController']]]
 ];

diff --git a/html/search/variables_2.js b/html/search/variables_2.js
@@ -3,11 +3,12 @@ var searchData=
   ['cafe_0',['cafe',['../classPlanningPoker_1_1Card.html#aad7bc39e9f10739377e1d7044c7a9bce',1,'PlanningPoker::Card']]],
   ['card_1',['card',['../classCardSlot.html#a1d7c85a7ef9ce287f678730138a27f75',1,'CardSlot']]],
   ['cards_2',['cards',['../classDebateController.html#a60110827acf35318c845e939364353ce',1,'DebateController.cards'],['../classResultController.html#afc3ab42b48844f197513304b8f7ec305',1,'ResultController.cards']]],
-  ['cardsize_3',['cardsize',['../classDebateController.html#aadd380d4d7a1120a806bb958d02c4588',1,'DebateController.cardSize'],['../classResultController.html#a05c6824f3d77cf8756720823d70d17ec',1,'ResultController.cardSize'],['../classCardSlot.html#a9941e4748e4b48a14fce74740a809574',1,'CardSlot.cardSize']]],
+  ['cardsize_3',['cardsize',['../classCardSlot.html#a9941e4748e4b48a14fce74740a809574',1,'CardSlot.cardSize'],['../classDebateController.html#aadd380d4d7a1120a806bb958d02c4588',1,'DebateController.cardSize'],['../classResultController.html#a05c6824f3d77cf8756720823d70d17ec',1,'ResultController.cardSize']]],
   ['cardslot_4',['cardSlot',['../classGameController.html#aa9bd690cbd8e1eb1c1f10d94215e514e',1,'GameController']]],
   ['cardvalue_5',['cardValue',['../classDragCard.html#a7bbed292b446e9a8564f88829b362678',1,'DragCard']]],
   ['cent_6',['cent',['../classPlanningPoker_1_1Card.html#af53fd4f3897aff1617465ee3159793c9',1,'PlanningPoker::Card']]],
   ['chronometertext_7',['chronometerText',['../classChrono.html#aa835d140eeb4b0c81bd355bc0ffb7021',1,'Chrono']]],
   ['cinq_8',['cinq',['../classPlanningPoker_1_1Card.html#a15eda93793c7ab8a7d8a9299583d571f',1,'PlanningPoker::Card']]],
-  ['contentnoms_9',['contentNoms',['../classMenuController.html#a5ecbb0f445107ddc4d097e3c47fc3486',1,'MenuController']]]
+  ['contentfonc_9',['contentFonc',['../classGameController.html#a3e220e0bbcc906b1c2b78b963fb5dbdc',1,'GameController']]],
+  ['contentnoms_10',['contentNoms',['../classMenuController.html#a5ecbb0f445107ddc4d097e3c47fc3486',1,'MenuController']]]
 ];

diff --git a/html/functions.html b/html/functions.html
@@ -98,6 +98,7 @@ $(function() {
 <li>checkParameters()&#160;:&#160;<a class="el" href="classMenuController.html#a86fd23e7fb64993df8166a210bd99999">MenuController</a></li>
 <li>chronometerText&#160;:&#160;<a class="el" href="classChrono.html#aa835d140eeb4b0c81bd355bc0ffb7021">Chrono</a></li>
 <li>cinq&#160;:&#160;<a class="el" href="classPlanningPoker_1_1Card.html#a15eda93793c7ab8a7d8a9299583d571f">PlanningPoker.Card</a></li>
+<li>contentFonc&#160;:&#160;<a class="el" href="classGameController.html#a3e220e0bbcc906b1c2b78b963fb5dbdc">GameController</a></li>
 <li>contentNoms&#160;:&#160;<a class="el" href="classMenuController.html#a5ecbb0f445107ddc4d097e3c47fc3486">MenuController</a></li>
 </ul>
 
@@ -111,7 +112,9 @@ $(function() {
 <h3><a id="index_f" name="index_f"></a>- f -</h3><ul>
 <li>file&#160;:&#160;<a class="el" href="classMenuController.html#a00b6aef420afdb7262bba9f339e1823f">MenuController</a></li>
 <li>fonc&#160;:&#160;<a class="el" href="classDebateController.html#a648a21ed2ee866fbd45e75b9d78c1702">DebateController</a>, <a class="el" href="classResultController.html#a786403a2942f90d71a8c3c777de4a154">ResultController</a></li>
+<li>foncPrefab&#160;:&#160;<a class="el" href="classGameController.html#a9b91609c95498f450aee75672f149a7c">GameController</a></li>
 <li>Fonctionnalite()&#160;:&#160;<a class="el" href="classPlanningPoker_1_1Fonctionnalite.html#a94a9144ed8bb09544b5eed36a6533fb9">PlanningPoker.Fonctionnalite</a></li>
+<li>fonctionnalites&#160;:&#160;<a class="el" href="classPlanningPoker_1_1AppManager.html#a8fd02e1730aae81f28bad8e9ab05d3cc">PlanningPoker.AppManager</a></li>
 </ul>
 
 

diff --git a/html/search/all_4.js b/html/search/all_4.js
@@ -2,6 +2,8 @@ var searchData=
 [
   ['file_0',['file',['../classMenuController.html#a00b6aef420afdb7262bba9f339e1823f',1,'MenuController']]],
   ['fonc_1',['fonc',['../classDebateController.html#a648a21ed2ee866fbd45e75b9d78c1702',1,'DebateController.fonc'],['../classResultController.html#a786403a2942f90d71a8c3c777de4a154',1,'ResultController.fonc']]],
-  ['fonctionnalite_2',['fonctionnalite',['../classFonctionnalite.html',1,'Fonctionnalite'],['../classPlanningPoker_1_1Fonctionnalite.html',1,'PlanningPoker.Fonctionnalite'],['../classPlanningPoker_1_1Fonctionnalite.html#a94a9144ed8bb09544b5eed36a6533fb9',1,'PlanningPoker.Fonctionnalite.Fonctionnalite()']]],
-  ['fonctionnalitewrapper_3',['FonctionnaliteWrapper',['../classPlanningPoker_1_1FonctionnaliteWrapper.html',1,'PlanningPoker']]]
+  ['foncprefab_2',['foncPrefab',['../classGameController.html#a9b91609c95498f450aee75672f149a7c',1,'GameController']]],
+  ['fonctionnalite_3',['fonctionnalite',['../classFonctionnalite.html',1,'Fonctionnalite'],['../classPlanningPoker_1_1Fonctionnalite.html',1,'PlanningPoker.Fonctionnalite'],['../classPlanningPoker_1_1Fonctionnalite.html#a94a9144ed8bb09544b5eed36a6533fb9',1,'PlanningPoker.Fonctionnalite.Fonctionnalite()']]],
+  ['fonctionnalites_4',['fonctionnalites',['../classPlanningPoker_1_1AppManager.html#a8fd02e1730aae81f28bad8e9ab05d3cc',1,'PlanningPoker::AppManager']]],
+  ['fonctionnalitewrapper_5',['FonctionnaliteWrapper',['../classPlanningPoker_1_1FonctionnaliteWrapper.html',1,'PlanningPoker']]]
 ];

diff --git a/html/functions_vars.html b/html/functions_vars.html
@@ -91,6 +91,7 @@ $(function() {
 <li>cent&#160;:&#160;<a class="el" href="classPlanningPoker_1_1Card.html#af53fd4f3897aff1617465ee3159793c9">PlanningPoker.Card</a></li>
 <li>chronometerText&#160;:&#160;<a class="el" href="classChrono.html#aa835d140eeb4b0c81bd355bc0ffb7021">Chrono</a></li>
 <li>cinq&#160;:&#160;<a class="el" href="classPlanningPoker_1_1Card.html#a15eda93793c7ab8a7d8a9299583d571f">PlanningPoker.Card</a></li>
+<li>contentFonc&#160;:&#160;<a class="el" href="classGameController.html#a3e220e0bbcc906b1c2b78b963fb5dbdc">GameController</a></li>
 <li>contentNoms&#160;:&#160;<a class="el" href="classMenuController.html#a5ecbb0f445107ddc4d097e3c47fc3486">MenuController</a></li>
 </ul>
 
@@ -104,6 +105,8 @@ $(function() {
 <h3><a id="index_f" name="index_f"></a>- f -</h3><ul>
 <li>file&#160;:&#160;<a class="el" href="classMenuController.html#a00b6aef420afdb7262bba9f339e1823f">MenuController</a></li>
 <li>fonc&#160;:&#160;<a class="el" href="classDebateController.html#a648a21ed2ee866fbd45e75b9d78c1702">DebateController</a>, <a class="el" href="classResultController.html#a786403a2942f90d71a8c3c777de4a154">ResultController</a></li>
+<li>foncPrefab&#160;:&#160;<a class="el" href="classGameController.html#a9b91609c95498f450aee75672f149a7c">GameController</a></li>
+<li>fonctionnalites&#160;:&#160;<a class="el" href="classPlanningPoker_1_1AppManager.html#a8fd02e1730aae81f28bad8e9ab05d3cc">PlanningPoker.AppManager</a></li>
 </ul>
 
 

diff --git a/html/search/variables_4.js b/html/search/variables_4.js
@@ -1,5 +1,7 @@
 var searchData=
 [
   ['file_0',['file',['../classMenuController.html#a00b6aef420afdb7262bba9f339e1823f',1,'MenuController']]],
-  ['fonc_1',['fonc',['../classDebateController.html#a648a21ed2ee866fbd45e75b9d78c1702',1,'DebateController.fonc'],['../classResultController.html#a786403a2942f90d71a8c3c777de4a154',1,'ResultController.fonc']]]
+  ['fonc_1',['fonc',['../classDebateController.html#a648a21ed2ee866fbd45e75b9d78c1702',1,'DebateController.fonc'],['../classResultController.html#a786403a2942f90d71a8c3c777de4a154',1,'ResultController.fonc']]],
+  ['foncprefab_2',['foncPrefab',['../classGameController.html#a9b91609c95498f450aee75672f149a7c',1,'GameController']]],
+  ['fonctionnalites_3',['fonctionnalites',['../classPlanningPoker_1_1AppManager.html#a8fd02e1730aae81f28bad8e9ab05d3cc',1,'PlanningPoker::AppManager']]]
 ];

diff --git a/html/classDebateController.html b/html/classDebateController.html
@@ -150,7 +150,7 @@ Vector2&#160;</td><td class="memItemRight" valign="bottom"><b>cardSize</b></td><
 <div class="textblock"><p>Permet de gérer l'affichage lors du débat. </p>
 <p>Cette classe est un composant qui s'occupe d'afficher les cartes extrêmes ainsi que les noms des joueurs qui ont voté avec ces cartes. Ce composant est activé uniquement lorsque le canva débat est affiché </p>
 </div><hr/>The documentation for this class was generated from the following file:<ul>
-<li>Assets/Scripts/Controller/<b>DebateController.cs</b></li>
+<li>Assets/Scripts/UI/<b>DebateController.cs</b></li>
 </ul>
 </div><!-- contents -->
 <!-- start footer part -->
